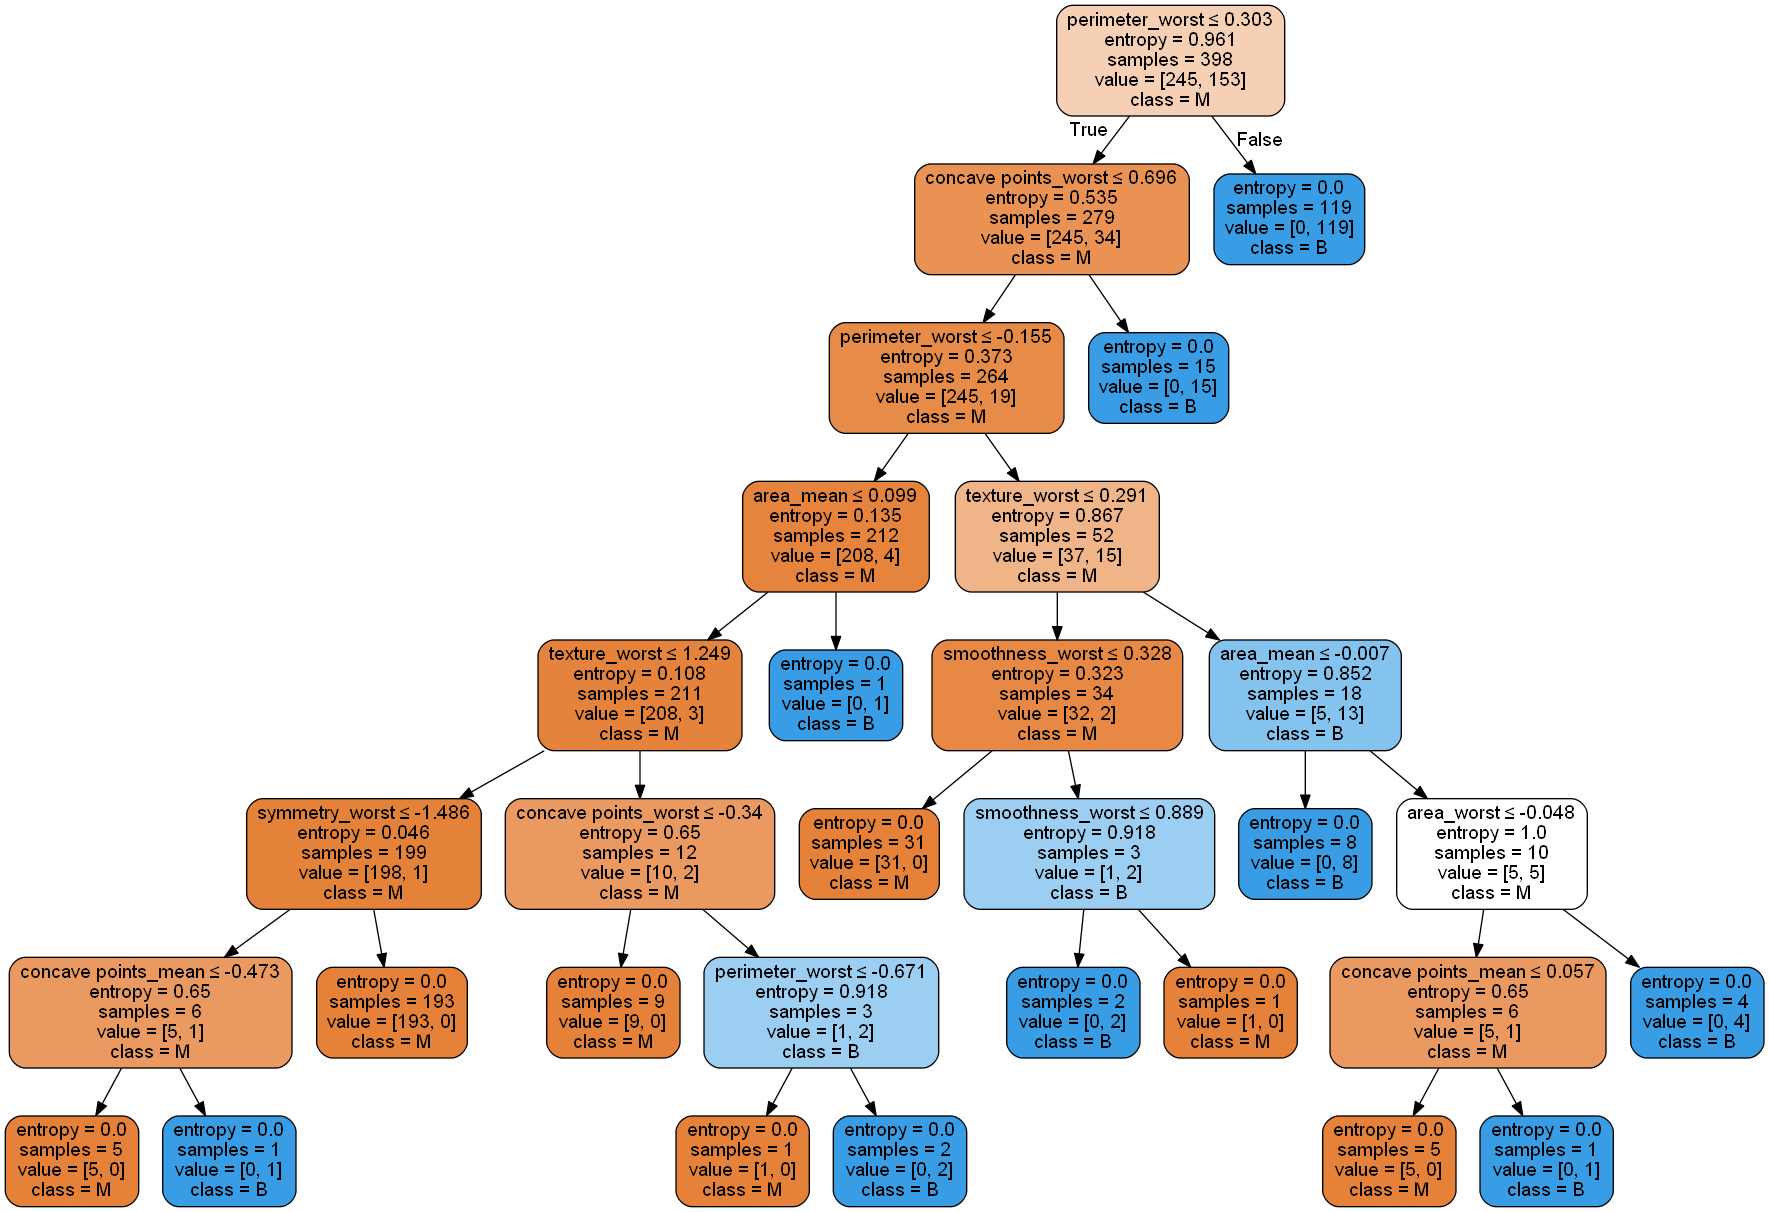
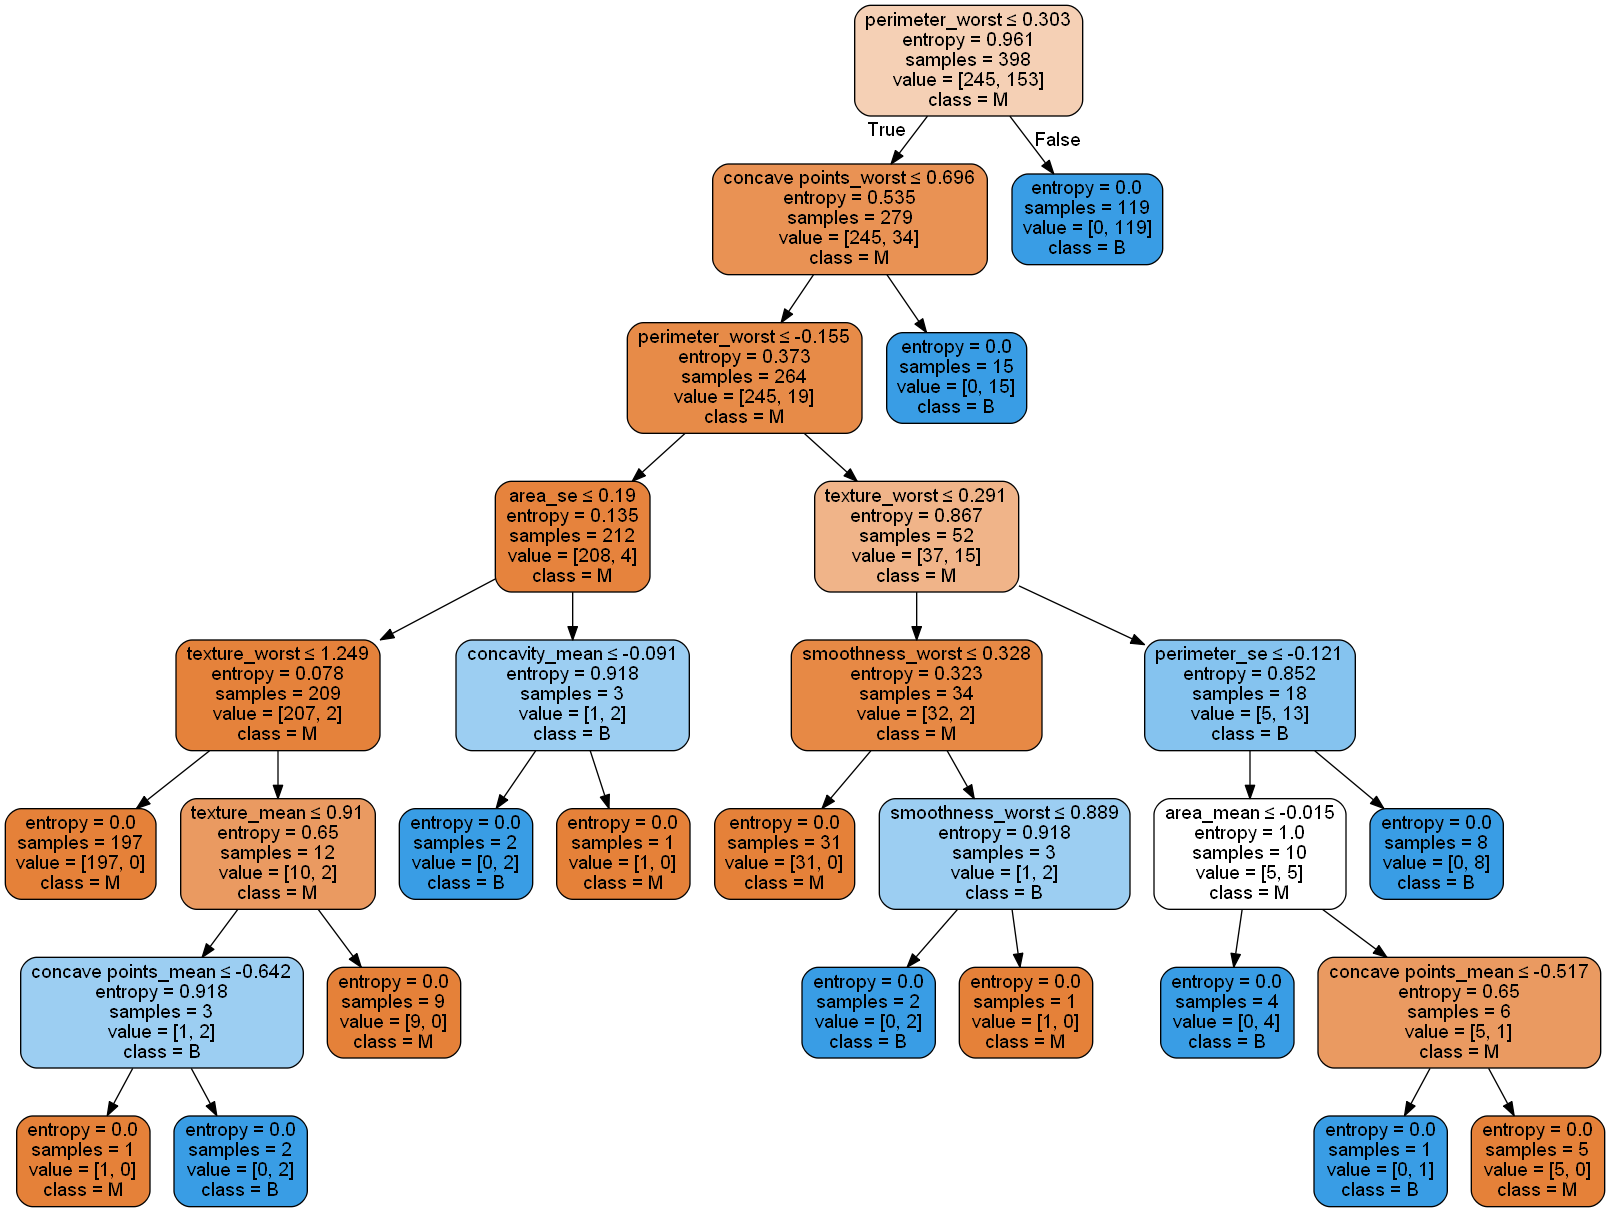
optimal k and no of features

diff --git a/knnbayesian.py b/knnbayesian.py
@@ -4,39 +4,85 @@ from sklearn.neighbors import KNeighborsClassifier
 from sklearn.metrics import accuracy_score
 from sklearn.naive_bayes import GaussianNB
 
-# preprocess data
-trainX, testX, trainY, testY = preprocessing.preprocess(0.3, False, 10)
 
-# k-Nearest Neighbour
-K = [3, 5, 7, 11, 13, 17, 19, 23]
-knn_accuracy = []
+print("k-Nearest Neighbours...")
+K = [3, 5, 7, 11, 13, 17, 19]
+features = [10, 15, 20, 25, 30]
+knn_acc = []
 
 for k in K:
-    model = KNeighborsClassifier(n_neighbors=k, weights='distance')
+    knn_acc_ = []
+    for feat in features:
+        # preprocess data
+        trainX, testX, trainY, testY = preprocessing.preprocess(0.3, False, feat)
+
+        # k-Nearest Neighbour
+        model = KNeighborsClassifier(n_neighbors=k, weights='distance')
+        model.fit(trainX, trainY)
+        predicted = model.predict(testX)
+        acc = accuracy_score(testY, predicted)
+        print('k %d, no of features %d, accuracy %g'%(k, feat, acc))
+        knn_acc_.append(acc)
+    print("")
+    knn_acc.append(knn_acc_)
+
+
+plt.figure()
+plt.plot(range(len(features)), knn_acc[0], label = 'k=3')
+plt.plot(range(len(features)), knn_acc[1], label = 'k=5')
+plt.plot(range(len(features)), knn_acc[2], label = 'k=7')
+plt.plot(range(len(features)), knn_acc[3], label = 'k=11')
+plt.plot(range(len(features)), knn_acc[4], label = 'k=13')
+plt.plot(range(len(features)), knn_acc[5], label = 'k=17')
+plt.plot(range(len(features)), knn_acc[6], label = 'k=19')
+plt.xticks(range(len(features)), features)
+plt.xlabel('no of features')
+plt.ylabel('accuracy')
+plt.title("kNN Accuracy against no of features")
+plt.legend(loc='lower right')
+plt.savefig('kNN.png')
+
+
+max_knn_acc = 0
+best_k = 0
+best_knn_feat = 0
+
+for i in range(len(K)):
+    for j in range(len(features)):
+        if knn_acc[i][j] > max_knn_acc:
+            max_knn_acc = knn_acc[i][j]
+            best_k = K[i]
+            best_knn_feat = features[j]
+
+print("Best k %d, best no of features %d, kNN accuracy %g\n"%(best_k, best_knn_feat, max_knn_acc))
+
+
+print("Naive Bayesian...")
+NB_acc = []
+for feat in features:
+    # preprocess data
+    trainX, testX, trainY, testY = preprocessing.preprocess(0.3, False, feat)
+
+    # k-Nearest Neighbour
+    model = GaussianNB()
     model.fit(trainX, trainY)
     predicted = model.predict(testX)
     acc = accuracy_score(testY, predicted)
-    knn_accuracy.append(acc)
+    print('No of features %d, NB accuracy %g'%(feat, acc))
+    NB_acc.append(acc)
 
 plt.figure()
-plt.plot(range(len(K)), knn_accuracy)
-plt.xticks(range(len(K)), K)
-plt.xlabel('k')
+plt.plot(range(len(features)), NB_acc)
+plt.xticks(range(len(features)), features)
+plt.xlabel('no of features')
 plt.ylabel('accuracy')
-plt.title("Accuracy against k")
-plt.savefig('kNN.png')
+plt.title("NB Accuracy against no of features")
+plt.savefig('Naive Bayesian.png')
+
+for i in range(len(features)):
+    max_NB_acc = max(NB_acc)
+    best_NB_feat = features[NB_acc.index(max_NB_acc)]
+
+print("Best no of features %d, Naive Bayesian accuracy %g"%(best_NB_feat, max_NB_acc))
+
 plt.show()
-
-print("kNN accuracy:", knn_accuracy)
-
-
-# Naive Bayesian
-model = GaussianNB()
-model.fit(trainX, trainY)
-predicted = model.predict(testX)
-
-print("")
-print("Naive Bayesian:")
-print(predicted)
-
-print("Accuracy Naive Bayesian:", accuracy_score(testY, predicted))

diff --git a/decisiontree.py b/decisiontree.py
@@ -8,18 +8,50 @@ from sklearn.externals.six import StringIO
 from IPython.display import Image  
 import pydotplus
 import os
+import pylab as plt
+
+features = [10, 15, 20, 25, 30]
+dectree_accuracy = []
+
+best_acc = 0
+for feat in features:
+    # preprocess data
+    trainX, testX, trainY, testY = preprocessing.preprocess(0.3, False, feat)
+
+    # build decision tree
+    dec_tree = DecisionTreeClassifier(criterion="entropy")
+    dec_tree = dec_tree.fit(trainX, trainY)
+
+    predicted = dec_tree.predict(testX)
+
+    # model Accuracy
+    acc = accuracy_score(testY, predicted)
+    dectree_accuracy.append(acc)
+    print("No of features %d accuracy %g"%(feat, acc))
+
+    if acc > best_acc:
+        best_feat = feat
+        best_acc = acc
+
+
+plt.figure()
+plt.plot(range(len(features)), dectree_accuracy)
+plt.xticks(range(len(features)), features)
+plt.xlabel('no of features')
+plt.ylabel('accuracy')
+plt.title("Accuracy against no of features")
+plt.savefig('dectree.png')
+
+print("Decision tree accuracy:", dectree_accuracy)
+print("Best no of features %d accuracy: %g"%(best_feat, best_acc))
+
 
 # preprocess data
-trainX, testX, trainY, testY = preprocessing.preprocess(0.3, False, 10)
+trainX, testX, trainY, testY = preprocessing.preprocess(0.3, False, best_feat)
 
 # build decision tree
 dec_tree = DecisionTreeClassifier(criterion="entropy")
-dec_tree = dec_tree.fit(reducedX, trainY)
-
-test_prediction = dec_tree.predict(reducedtest)
-
-# model Accuracy
-print("Accuracy:", accuracy_score(testY, test_prediction))
+dec_tree = dec_tree.fit(trainX, trainY)
 
 # adding path
 os.environ['PATH'] = os.environ['PATH']+';'+os.environ['CONDA_PREFIX']+r"\Library\bin\graphviz"
@@ -27,8 +59,9 @@ os.environ['PATH'] = os.environ['PATH']+';'+os.environ['CONDA_PREFIX']+r"\Librar
 dot_data = StringIO()
 export_graphviz(dec_tree, out_file=dot_data,  
                 filled=True, rounded=True,
-                special_characters=True,feature_names = reducedX.columns,class_names=['M','B'])
+                special_characters=True,feature_names = trainX.columns,class_names=['M','B'])
 graph = pydotplus.graph_from_dot_data(dot_data.getvalue())  
 graph.write_png('Decision Tree.png')
 Image(graph.create_png())
 
+plt.show()
